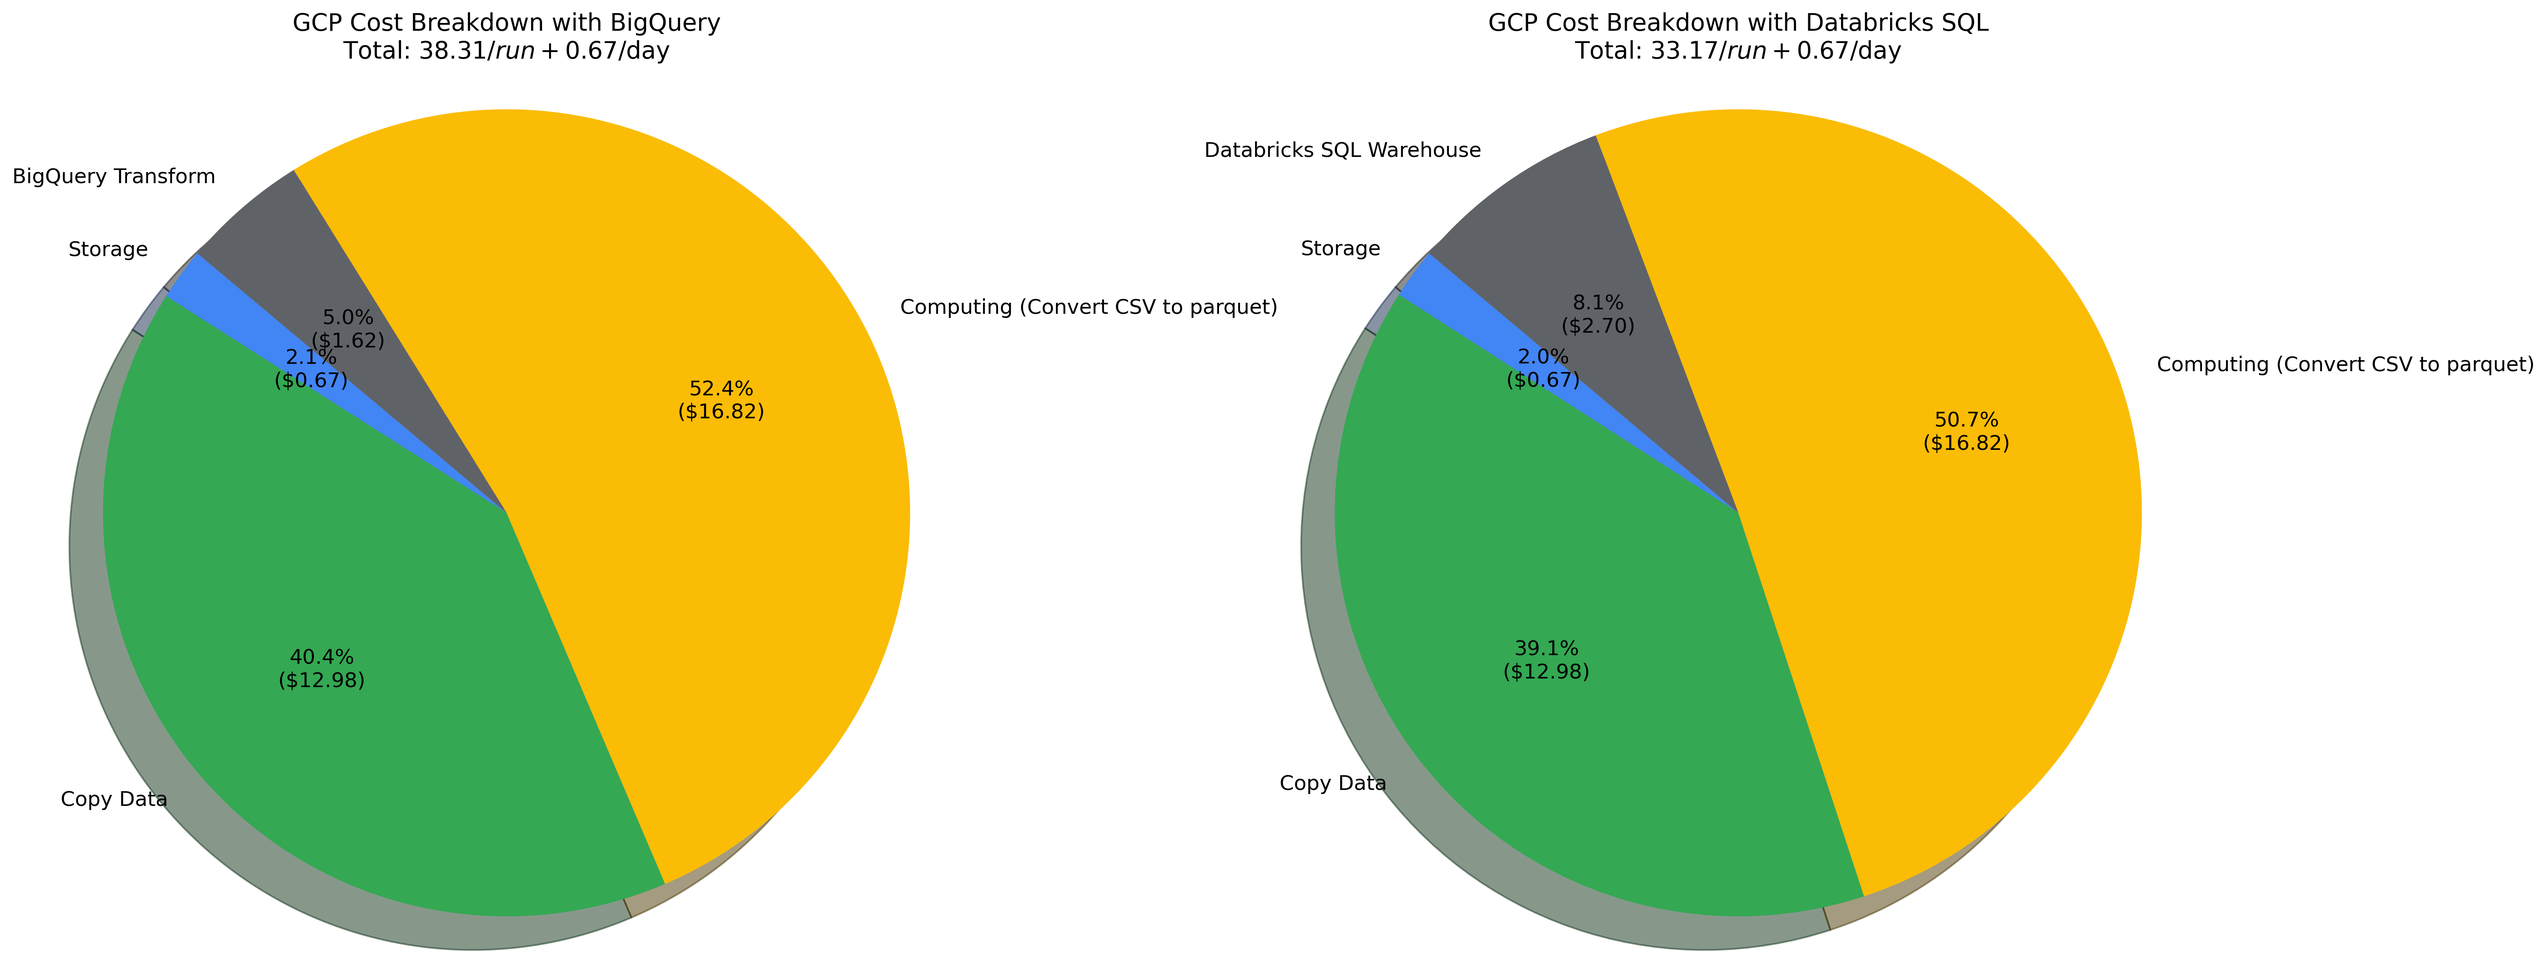
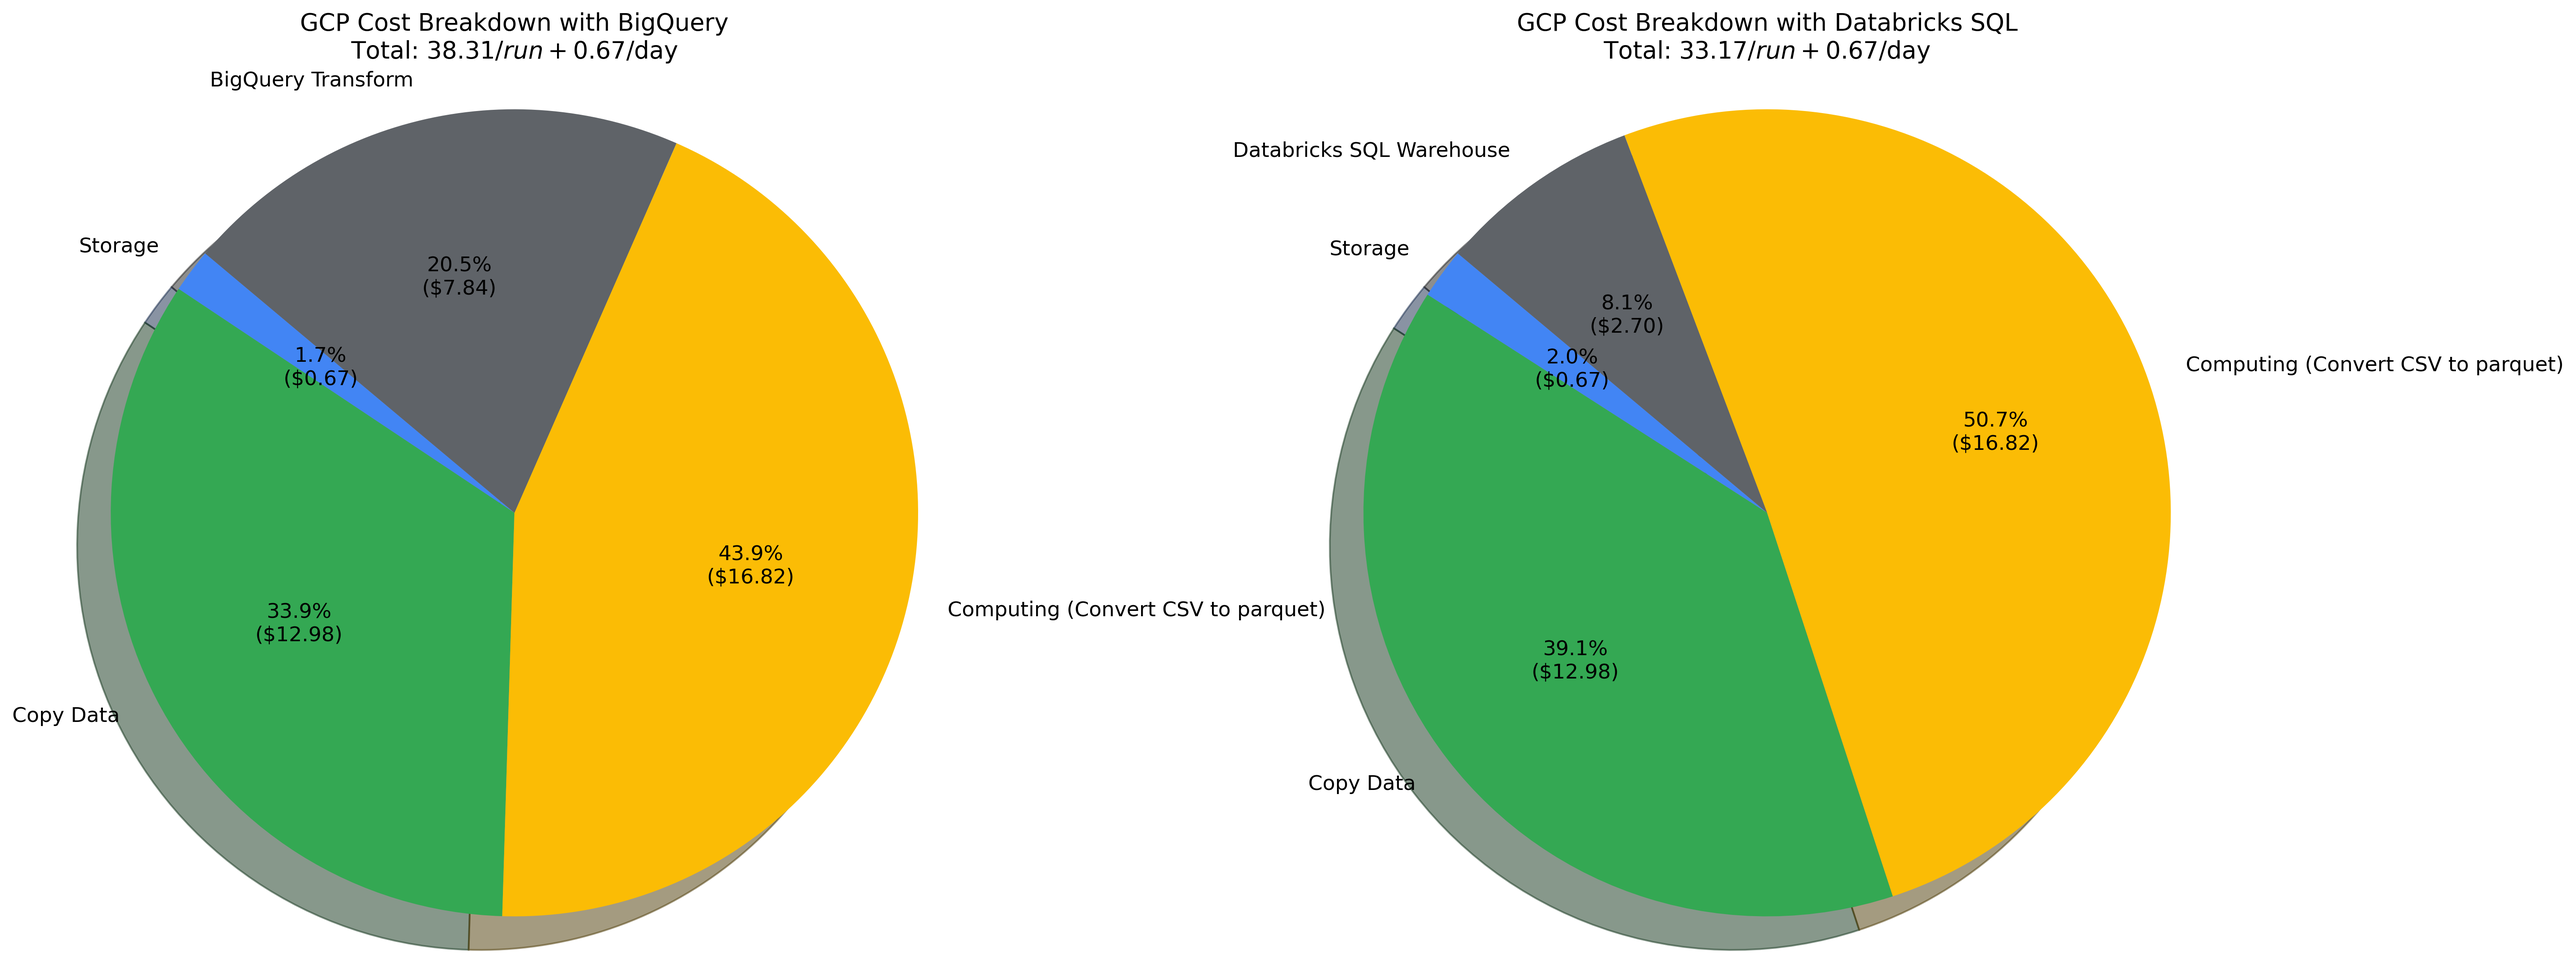
Update README.md: correct value for BigQueryTransform cost in pie chart

diff --git a/create_cost_performance_charts.py b/create_cost_performance_charts.py
@@ -18,7 +18,7 @@ gcp_storage = 0.67  # daily storage cost
 gcp_copy_data = 12.98  # data egress cost per run (formerly network)
 gcp_compute_vm = 2.60  # VM instance cost per run
 gcp_compute_databricks = 14.22  # Databricks cluster cost per run
-gcp_transform = 7.84  # BigQuery transform cost per run
+gcp_transform_cost = 7.84  # BigQuery transform cost per run
 gcp_transform_databricks = 2.7  # Databricks SQL Warehouse cost per run
 
 # Snowflake costs
@@ -27,14 +27,14 @@ snowflake_transform = 30.0  # transform data cost per run
 
 # Calculate total costs (including copy data/egress)
 azure_total_with_copy_data = azure_storage + azure_copy_data + azure_compute_vm + azure_compute_databricks
-gcp_total_with_copy_data = gcp_storage + gcp_copy_data + gcp_compute_vm + gcp_compute_databricks + gcp_transform
+gcp_total_with_copy_data = gcp_storage + gcp_copy_data + gcp_compute_vm + gcp_compute_databricks + gcp_transform_cost
 
 # Calculate total costs (excluding copy data/egress as per requirement)
 azure_total = azure_storage + azure_compute_vm + azure_compute_databricks
-gcp_total = gcp_storage + gcp_compute_vm + gcp_compute_databricks + gcp_transform
+gcp_total = gcp_storage + gcp_compute_vm + gcp_compute_databricks + gcp_transform_cost
 
 # Calculate transform costs for comparison
-bigquery_transform = gcp_transform  # BigQuery transform cost
+bigquery_transform = gcp_transform_cost  # BigQuery transform cost
 databricks_gcp_transform = gcp_transform_databricks  # Databricks SQL Warehouse cost on GCP
 snowflake_transform_cost = snowflake_transform  # Snowflake transform cost
 
@@ -46,12 +46,12 @@ azure_materialize = 14.43  # Materialize (14min 26s)
 
 # GCP performance
 gcp_convert = 91.0  # Convert CSV to Parquet (91min)
-gcp_transform = 1.62  # Transform (1min 37s)
+gcp_transform_time = 1.62  # Transform (1min 37s)
 gcp_materialize = 1.05  # Materialize (1min 3s)
 
 # Calculate total execution times
 azure_total_time = azure_convert + azure_transform + azure_materialize
-gcp_total_time = gcp_convert + gcp_transform + gcp_materialize
+gcp_total_time = gcp_convert + gcp_transform_time + gcp_materialize
 
 # Custom autopct function to show both percentage and value
 def make_autopct(values):
@@ -122,7 +122,7 @@ plt.subplot(1, 2, 1)
 # Combine VM Instance and Databricks Cluster into Computing (Convert CSV to parquet)
 gcp_compute_convert = gcp_compute_vm + gcp_compute_databricks
 gcp_bigquery_labels = ['Storage', 'Copy Data', 'Computing (Convert CSV to parquet)', 'BigQuery Transform']
-gcp_bigquery_sizes = [gcp_storage, gcp_copy_data, gcp_compute_convert, gcp_transform]
+gcp_bigquery_sizes = [gcp_storage, gcp_copy_data, gcp_compute_convert, gcp_transform_cost]
 gcp_bigquery_colors = ['#4285F4', '#34A853', '#FBBC05', '#5F6368']
 
 plt.pie(gcp_bigquery_sizes, labels=gcp_bigquery_labels, colors=gcp_bigquery_colors, 
@@ -186,7 +186,7 @@ azure_bars = plt.bar(x - width/2, [azure_convert, azure_transform, azure_materia
                     width, label='Azure', color='#0078D4')
 
 # GCP bars - using Google red for better contrast
-gcp_bars = plt.bar(x + width/2, [gcp_convert, gcp_transform, gcp_materialize], 
+gcp_bars = plt.bar(x + width/2, [gcp_convert, gcp_transform_time, gcp_materialize], 
                   width, label='GCP', color='#EA4335')
 
 plt.xlabel('Processing Step', fontsize=14)
@@ -198,7 +198,7 @@ plt.legend(fontsize=12)
 
 # Set y-axis limit to leave more room for labels
 max_value = max(azure_convert, azure_transform, azure_materialize, 
-                gcp_convert, gcp_transform, gcp_materialize)
+                gcp_convert, gcp_transform_time, gcp_materialize)
 plt.ylim(0, max_value * 1.15)  # Add 15% more space at the top
 
 # Add value labels on top of bars
@@ -222,7 +222,7 @@ azure_bars = plt.bar(x - width/2, [azure_transform, azure_materialize],
                     width, label='Azure', color='#0078D4')
 
 # GCP bars - using Google red for better contrast
-gcp_bars = plt.bar(x + width/2, [gcp_transform, gcp_materialize], 
+gcp_bars = plt.bar(x + width/2, [gcp_transform_time, gcp_materialize], 
                   width, label='GCP', color='#EA4335')
 
 plt.xlabel('Processing Step', fontsize=14)
@@ -233,7 +233,7 @@ plt.yticks(fontsize=12)
 plt.legend(fontsize=12)
 
 # Set y-axis limit to leave more room for labels
-max_value = max(azure_transform, azure_materialize, gcp_transform, gcp_materialize)
+max_value = max(azure_transform, azure_materialize, gcp_transform_time, gcp_materialize)
 plt.ylim(0, max_value * 1.3)  # Add 30% more space at the top for this chart
 
 # Add value labels on top of bars
